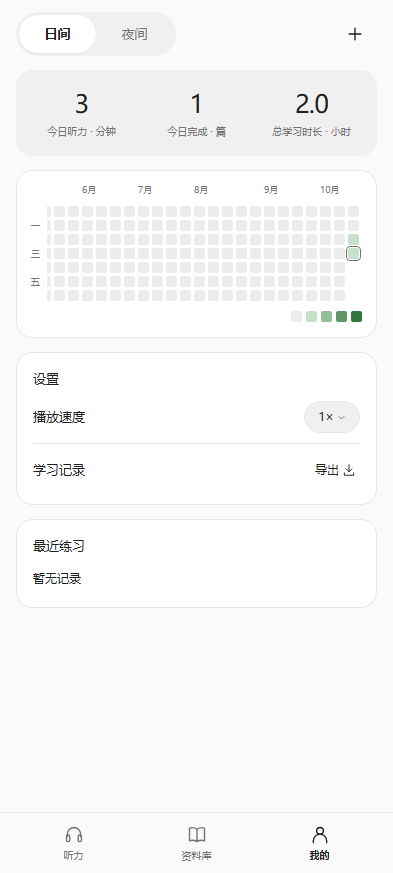
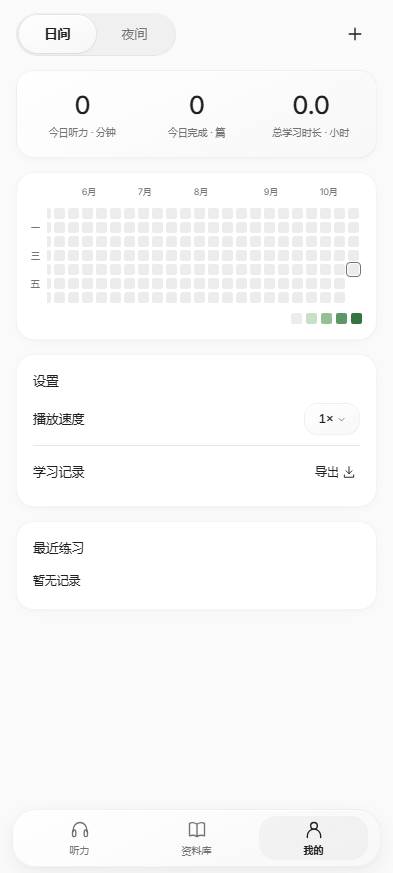
Document 1.0.9 verification and refined listening interface

diff --git a/docs/glass-ui.md b/docs/glass-ui.md
@@ -16,4 +16,16 @@
 
 ## 验证状态
 
-最终安装包与 Android 8／11／16 云端结果尚待绑定验证；此处不沿用 1.0.8 的通过记录。发布前需核对独立展开、预览与实际播放的首页选择、顶部工具位置、字体加载、手机安全区、重复播放及原有记录保留。最终结果由本地 `dist/test-results-1.0.9.json` 汇总。realme GT7／realme UI 7.0 本版尚未直接复测。
[1 lines of base64/hex data omitted]
+
+- 41 项源码、30 项活跃度逻辑、4 项原创示例／CI 资产契约检查通过；后两项分别属于源码测试子集和独立 Python 测试。
+- 21 项主题／首页／资料库检查通过，包括离线字体实际加载、工具只出现在“我的”、预览和失败播放保留首页、成功播放与明确选择更新首页、套卷选择材质动画和图标过渡，以及原有统计与日历。
+- 7 项整篇答题检查及 24 组手机布局通过。三题和四题文章覆盖三种尺寸、两种主题及全部收起／展开一题两种状态；另验证多题同时展开、逐题收起、选项全部可滚动触达。长内容在同一个文章页面滚动。
+- 18 组正文／安全区布局及 86 项包含真实六级音频和切片的浏览器播放回归通过。
+- 最终轻量 APK 在本地 Android 16／WebView 133.0.6943.137 实际触摸完成一篇 3 题六级文章，独立展开两题、整篇提交、完成数增加一篇；49 次受检查的原生触摸均记录到双帧稳定目标和一个匹配的可信点击。预览保留首页，资料库实际播放后更新首页，旧答案与重开记录保留。最终轻量版与公开演示版各通过 17 个原生播放场景和 8 项 Range 响应原始字节／哈希校验。
+- [GitHub 云端运行 38863754801](https://github.com/AITopia-Shao/listenly-android/actions/runs/38863754801) 的 4 项作业全部通过。Android 8／11／16 各完成安装、启动、实际触摸、离线字体加载、16 个播放场景、8 项 Range 字节校验和 74 项 Java 流契约检查。云端使用两套各含一篇一道题的原创夹具，真实切换未选套卷、预览和跨套播放均覆盖；同套内多文章置顶和多题行为由本地原生及浏览器验证。
+- 云端 Python 资产检查总计 7 项，包含 4 项原创示例／CI 资产契约与 3 项 ZIP 规范化契约；本地 `demo-contracts-dual-ci.log` 单独记录前 4 项。
+
+中间失败作为诊断保存，不纳入通过数量。较早一轮 Android 8 首播曾在已交付点击后未推进，但当时未采集完整音频状态，未将其归因于环境；后续完整运行新增媒体事件与播放 Promise 诊断。原生导航的两次失败和启动系统读取超时也保留，最终通过记录来自重新完成的整段运行。详见本地 `dist/test-results-1.0.9.json`。realme GT7／realme UI 7.0 本版尚未直接复测。
+
+个人轻量版及完整版的六级 JSON、录音 CRC 和长度均与 1.0.8 相同。公开仓库及公开 APK 仅包含两个原创示例、五道题、两段 CC0 录音，以及附 OFL 许可和来源的 Inter 字体。

diff --git a/README.md b/README.md
@@ -8,6 +8,18 @@
 | --- | --- | --- |
 | ![首页](docs/screenshots/home.png) | ![精听](docs/screenshots/intensive.png) | ![做题](docs/screenshots/quiz.png) |
 
+## 1.0.9 的交互与材质调整
+
+同篇题目可分别展开、同时查看，选择答案只收起当前题。预览套卷或文章保留首页内容；点击右侧选择按钮，或文章实际开始播放后，才更新首页。日间／夜间切换与导入加号统一移到“我的”顶部。
+
+播放按钮采用统一的圆润图形、紧凑触控区域与按压反馈；套卷选择增加勾选过渡和轻微高光，浮动导航、菜单与卡片统一边缘、层次和材质。英文使用随 APK 离线提供的 Inter 字体，中文使用系统字体；减少动画设置继续生效。材料、草稿、答案与学习记录保持原有数据格式。
+
+本版通过 21 项主题／首页／资料库检查、24 组做题布局、18 组正文与安全区布局、86 项真实音频播放回归，以及 [Android 8 / 11 / 16 云端实装与跨套选择检查](https://github.com/AITopia-Shao/listenly-android/actions/runs/38863754801)。最终轻量版与公开演示版各通过 17 个原生播放场景和 8 项 Range 字节校验；历史失败和验证边界见 [界面与选择交互](docs/glass-ui.md)，安装包见 [1.0.9 发布页](https://github.com/AITopia-Shao/listenly-android/releases/tag/v1.0.9)。realme GT7 本版尚未直接复测。下图仅使用原创示例。
+
+| 套卷选择 · 日间 | 套卷选择 · 夜间 | 夜间精听 |
+| --- | --- | --- |
+| ![日间套卷选择](docs/screenshots/library-papers.png) | ![夜间套卷选择](docs/screenshots/library-dark.png) | ![夜间精听](docs/screenshots/intensive-dark.png) |
+
 ## 1.0.8 的整篇下拉答题
 
 做题页移除书面题干，仅显示题号与选项。同篇所有题目集中在一个页面，点击题目行下拉展开选项，选择后收起并回显完整内容，不自动跳题。选齐后统一“提交本篇”，再展开查看正误与解析，或查看整篇成绩；既有答案、草稿和音频对齐继续保留。

diff --git a/docs/android-ci.md b/docs/android-ci.md
@@ -22,7 +22,7 @@ API 26 / 30 使用 Google APIs 镜像，API 36 使用已在本地实际验证的
 
 ## 测试 APK 和上传范围
 
-云端 APK 仅包含源码和在运行时程序生成的原创 24 秒 PCM 测试音。界面明确标注该文件为测试夹具、非英语朗读、非六级真题，真实试卷列表为空。真题录音、试卷、原始下载、用户导入文件和本地安装签名不用于云端测试。
+云端 APK 仅包含源码和在运行时程序生成的原创 24 秒 PCM 测试音。1.0.9 起，夹具包含两套各有一篇一道题的独立测试目录，共享这一段测试音，用于验证跨套预览、播放后更新首页和真正换选另一套。界面明确标注其为测试夹具、非英语朗读、非六级真题；构建只允许这两个指定的 CC0 夹具身份和唯一的合成 WAV。共享录音不能代替跨录音切换验证，后者由本地安装包和浏览器的不同录音覆盖。真题录音、试卷、原始下载、用户导入文件和本地安装签名不用于云端测试。
 
 CI 使用临时生成的测试签名，无法覆盖安装本机签名的完整版或轻量版。**不要将云端夹具 APK 当作用户更新包安装。** 真机修复安装包仍使用本地原签名构建，保留已有学习记录。
 
